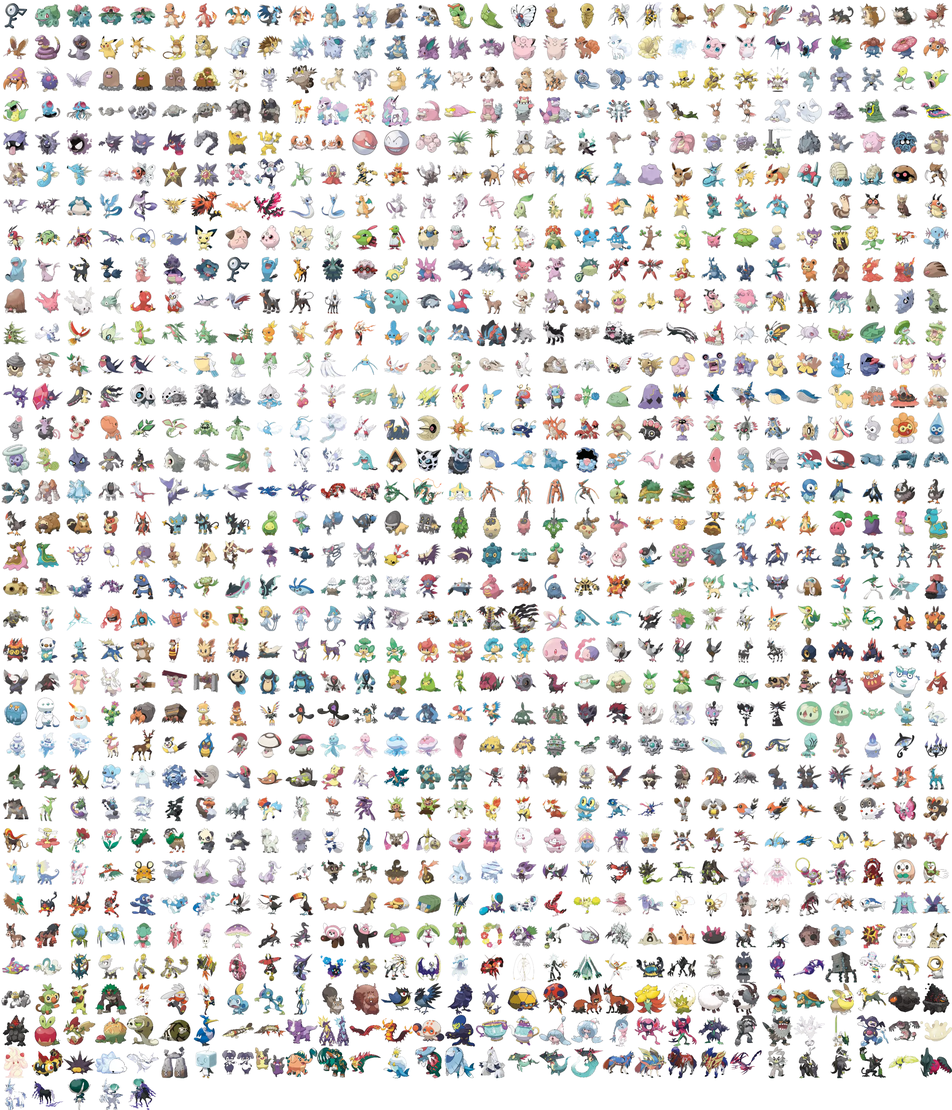
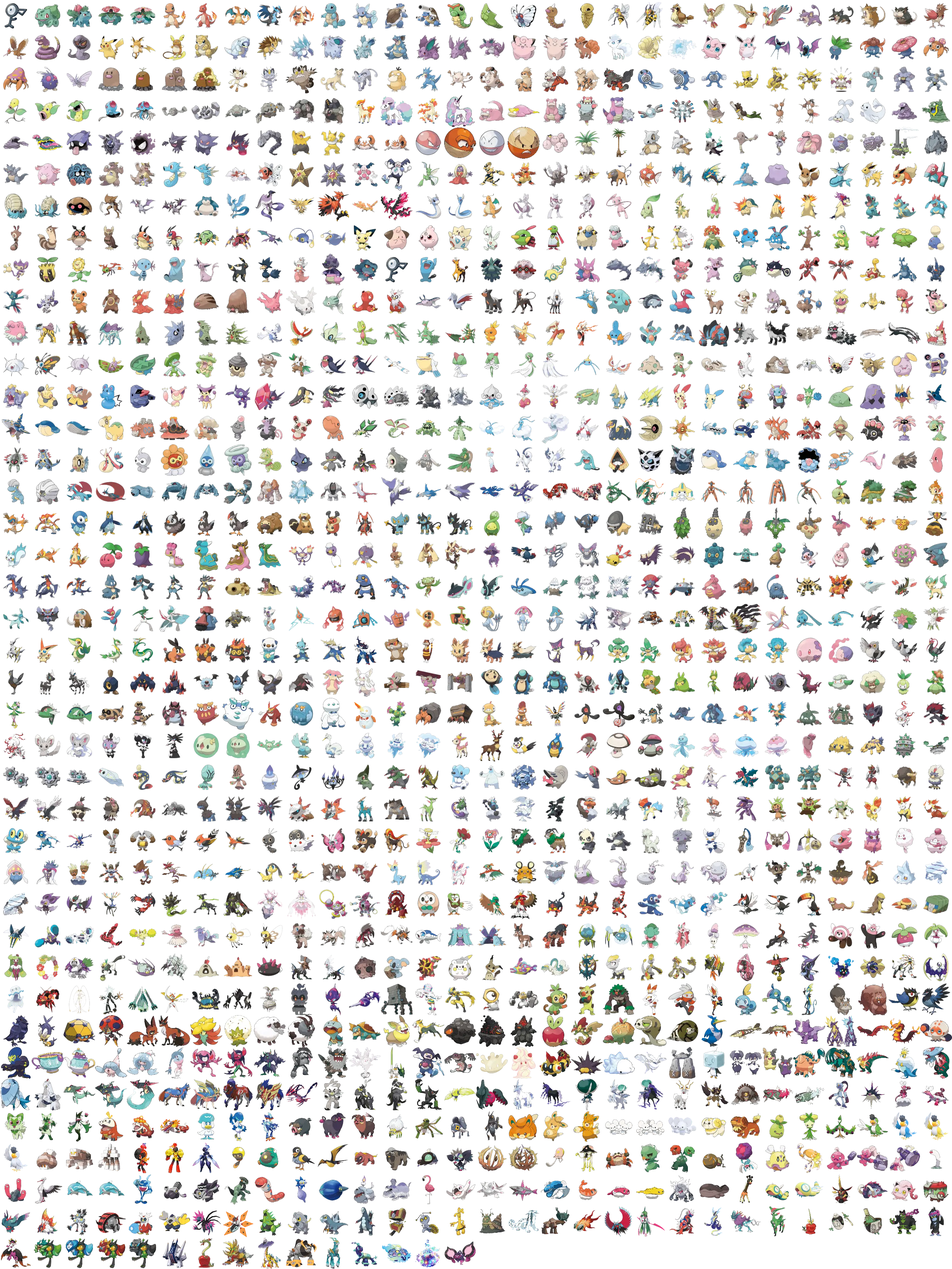
More image fixes; Update app for Gen9; Add TrainerTeams,Starters; Adjust Grid apperance

diff --git a/src/data/index.js b/src/data/index.js
@@ -28,6 +28,9 @@ import alola_u from './raw/regionalPokedex/alola_u.json';
 import galar from './raw/regionalPokedex/galar.json';
 import galar_isle_of_armor from './raw/regionalPokedex/galar_isle_of_armor.json';
 import galar_crown_tundra from './raw/regionalPokedex/galar_crown_tundra.json';
+import hisui from './raw/regionalPokedex/hisui.json';
+import paldea from './raw/regionalPokedex/paldea.json';
+import kitakami from './raw/regionalPokedex/kitakami.json';
 
 const SPRITES_PER_ROW = 30;
 const ART_PER_ROW = 30;
@@ -77,7 +80,10 @@ export function constructPokedex() {
       alola_u,
       galar,
       galar_isle_of_armor,
-      galar_crown_tundra
+      galar_crown_tundra,
+      hisui,
+      paldea,
+      kitakami
     }
   };
 }

diff --git a/src/utils/derivedData.js b/src/utils/derivedData.js
@@ -9,6 +9,7 @@ const GEN5_START = 494;
 const GEN6_START = 650;
 const GEN7_START = 722;
 const GEN8_START = 810;
+const GEN9_START = 906;
 export function getGeneration(dexNum) {
   if (dexNum < GEN2_START) return Generations.gen1;
   if (dexNum < GEN3_START) return Generations.gen2;
@@ -17,7 +18,8 @@ export function getGeneration(dexNum) {
   if (dexNum < GEN6_START) return Generations.gen5;
   if (dexNum < GEN7_START) return Generations.gen6;
   if (dexNum < GEN8_START) return Generations.gen7;
-  return Generations.gen8;
+  if (dexNum < GEN9_START) return Generations.gen8;
+  return Generations.gen9;
 }
 
 function createEmptyPokemon() {

diff --git a/src/constants/pokedex.js b/src/constants/pokedex.js
@@ -16,7 +16,10 @@ export const Pokedex = Object.freeze({
   alola_u: 'alola ultra',
   galar: 'galar',
   galar_isle_of_armor: 'galar isle of armor',
-  galar_crown_tundra: 'galar crown tundra'
+  galar_crown_tundra: 'galar crown tundra',
+  hisui: 'hisui',
+  paldea: 'paldea',
+  kitakami: 'kitakami'
 });
 
 function capitaliseEachWordOver2Characters(str) {

diff --git a/src/components/HeaderBar/NavigationMenu.js b/src/components/HeaderBar/NavigationMenu.js
@@ -84,7 +84,9 @@ function NavigationMenu() {
         aria-label={menuLabel}
         title={menuLabel}
       >
-        {(closeMenu) => <NavigationLinks onItemClick={closeMenu} />}
+        {(closeMenu) => {
+          return <NavigationLinks onItemClick={closeMenu} />;
+        }}
       </DropdownMenu>
     );
   }

diff --git a/src/views/TeamPlanner/TeamPlannerGrid.js b/src/views/TeamPlanner/TeamPlannerGrid.js
@@ -7,7 +7,7 @@ import chunk from 'ayaka/chunk';
 import Sprite from 'components/Sprite';
 import { useDimensions } from 'hooks/useDimensions';
 
-const ITEM_SIZE = 46;
+const ITEM_SIZE = 45;
 const GRID_HEIGHT = 370;
 const FALLBACK_WIDTH = 460;
 

diff --git a/src/constants/generations.js b/src/constants/generations.js
@@ -6,5 +6,6 @@ export default Object.freeze({
   gen5: 5,
   gen6: 6,
   gen7: 7,
-  gen8: 8
+  gen8: 8,
+  gen9: 9
 });
